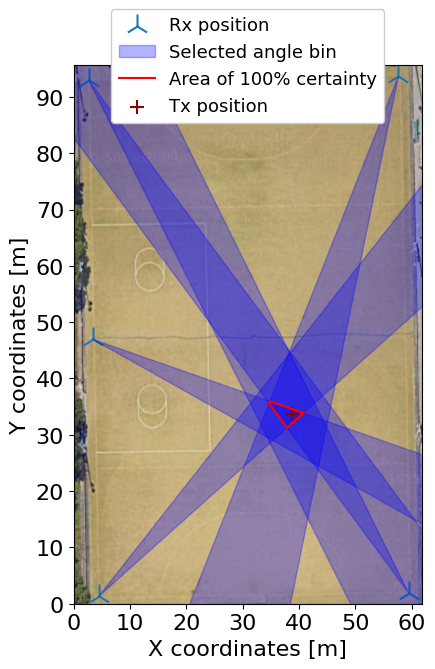
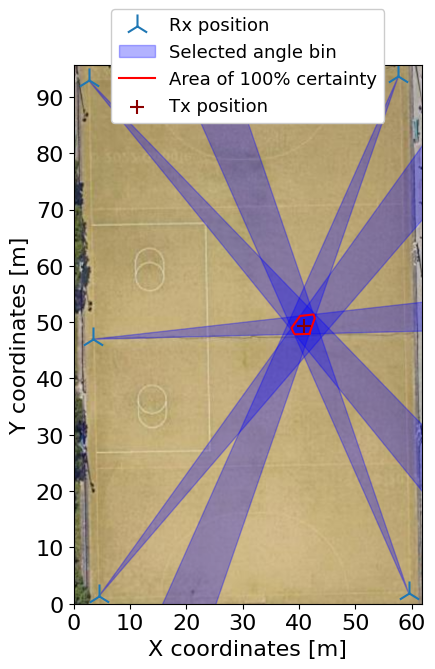
small changes

Changed region(s): [[0.1494, 0.0897, 0.9862, 0.9268], [0.2391, 0.867, 0.269, 0.8969]]

diff --git a/VScode/Python/Hockey_field_4_11_2022_localization.py b/VScode/Python/Hockey_field_4_11_2022_localization.py
@@ -11,6 +11,14 @@ import PIL as pl
 ani_on = 0
 pixel_step_size = 1
 
+def pixels_to_metres(pixels):
+    return pixels*normalization_factor
+def metres_to_pixels(metres):
+    return metres*(1/normalization_factor)
+
+def pixels_to_metres_sqrt(pixels):
+    return pixels*normalization_factor**2
+
 data = pd.read_csv('NoordOostZuidWestLopen_processed.csv', sep=',')
 
 # Make a function which draws the coordinates of the nodes on the map 
@@ -71,7 +79,8 @@ for j in char_arr:
 
 def init():
     ax.imshow(img)
-    frame_number.set_text("0")
+    if ani_on:
+        frame_number.set_text("0")
     Tx_plot = ax.scatter(-100,-100 ,marker="+", s = 100, color = 'darkred', label = 'Tx estimated position',zorder = 2)
     return ax,
 
@@ -107,11 +116,10 @@ if ani_on:
     ani = FuncAnimation(fig, update, frames=700, interval = 1,
                     init_func=init, blit=True, repeat = False)
 else:
-    cur_frame = 10
+    cur_frame = 0
     init()
     for j in char_arr:
         circle[j].radius = distance_normalized[j][cur_frame]
-    frame_number.set_text(cur_frame)
 
     pixel_step_size = 5
     least_dist = 1e4
@@ -144,6 +152,25 @@ else:
 
 
 # plt.show()
+
+xax_name_list = np.array([0,10,20,30,40,50,60])
+xax_val_list = metres_to_pixels(xax_name_list)
+
+ax.xaxis.set_major_locator(matplotlib.ticker.FixedLocator((xax_val_list)))
+ax.xaxis.set_major_formatter(matplotlib.ticker.FixedFormatter((xax_name_list)))
+
+ax.set_ylim(ax.get_ylim()[::-1])
+
+yax_name_list = np.array([0,10,20,30,40,50,60,70,80,90,100,110])
+yax_val_list = metres_to_pixels(yax_name_list)
+
+ax.yaxis.set_major_locator(matplotlib.ticker.FixedLocator((yax_val_list)))
+ax.yaxis.set_major_formatter(matplotlib.ticker.FixedFormatter((yax_name_list)))
+
+
+ax.set_xlabel('X coordinates [m]')
+ax.set_ylabel('Y coordinates [m]')
+
 
 plt.show()
 

diff --git a/VScode/Python/hockey_field_simulation.py b/VScode/Python/hockey_field_simulation.py
@@ -15,13 +15,14 @@ from scipy import interpolate
 # Simulate with discrete steps in receiver resolution
 save = 1
 
-heatmap_on = 1
+heatmap_on = 0
 pixel_res = 50
+cone_plot = 0
 
 animation_on = 0
 
 # Uncertainty of the direction of nodes
-res_angle = 10
+res_angle = 5
 res_angle_arr = np.arange(0, 181-res_angle, res_angle)
 
 res_angle_rad = res_angle/360*2*np.pi
@@ -202,7 +203,7 @@ else:
     update_triangles()
           
 
-
+plt.show()
 
 xax_name_list = np.array([0,10,20,30,40,50,60])
 xax_val_list = metres_to_pixels(xax_name_list)
